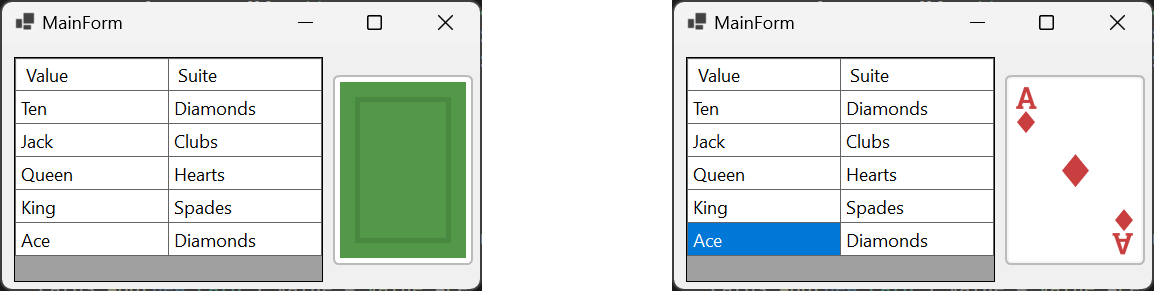
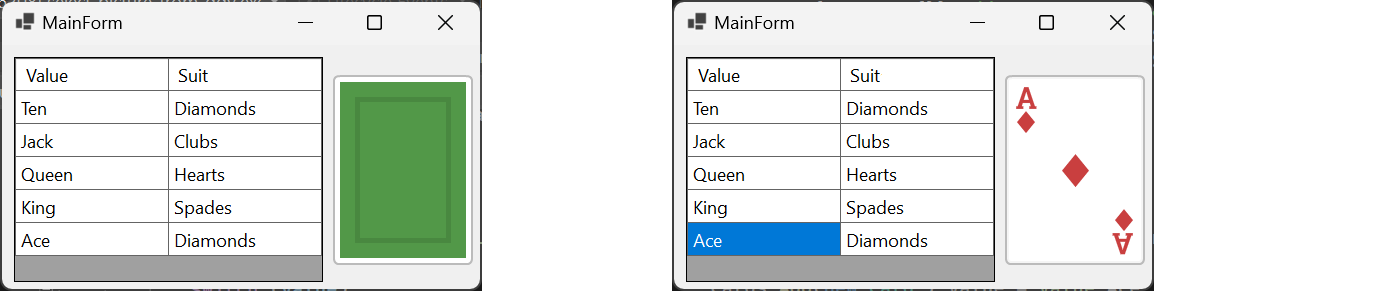
readme fix typos and clearer explanation

diff --git a/README.md b/README.md
@@ -58,7 +58,7 @@ Then you make a `BindingList<Card>` and assign it to the `DataSource` property o
         .
     }
 
-Once the data binding is established, you can add and remove cards from the DGV by manipulating the data in the `Cards` collection instead of having to work with the UI control directly.
+As shown above, the data binding lets you add and remove cards from the DGV by manipulating the data in the `Cards` collection instead of having to work with the UI control directly.
 
 ***
 **Handle event**
@@ -125,5 +125,6 @@ Now the image can be retrieved based on the card's value and suit.
 
 Ace of diamonds image: [Boardgame pack v2](https://opengameart.org/content/boardgame-pack) (Creative Commons License) by Kenney Vleugels.
 
-  [1]: https://i.stack.imgur.com/tP7d0.png
+
+  [1]: https://i.stack.imgur.com/Q1rZh.png
   [2]: https://i.stack.imgur.com/Rqq3J.png
